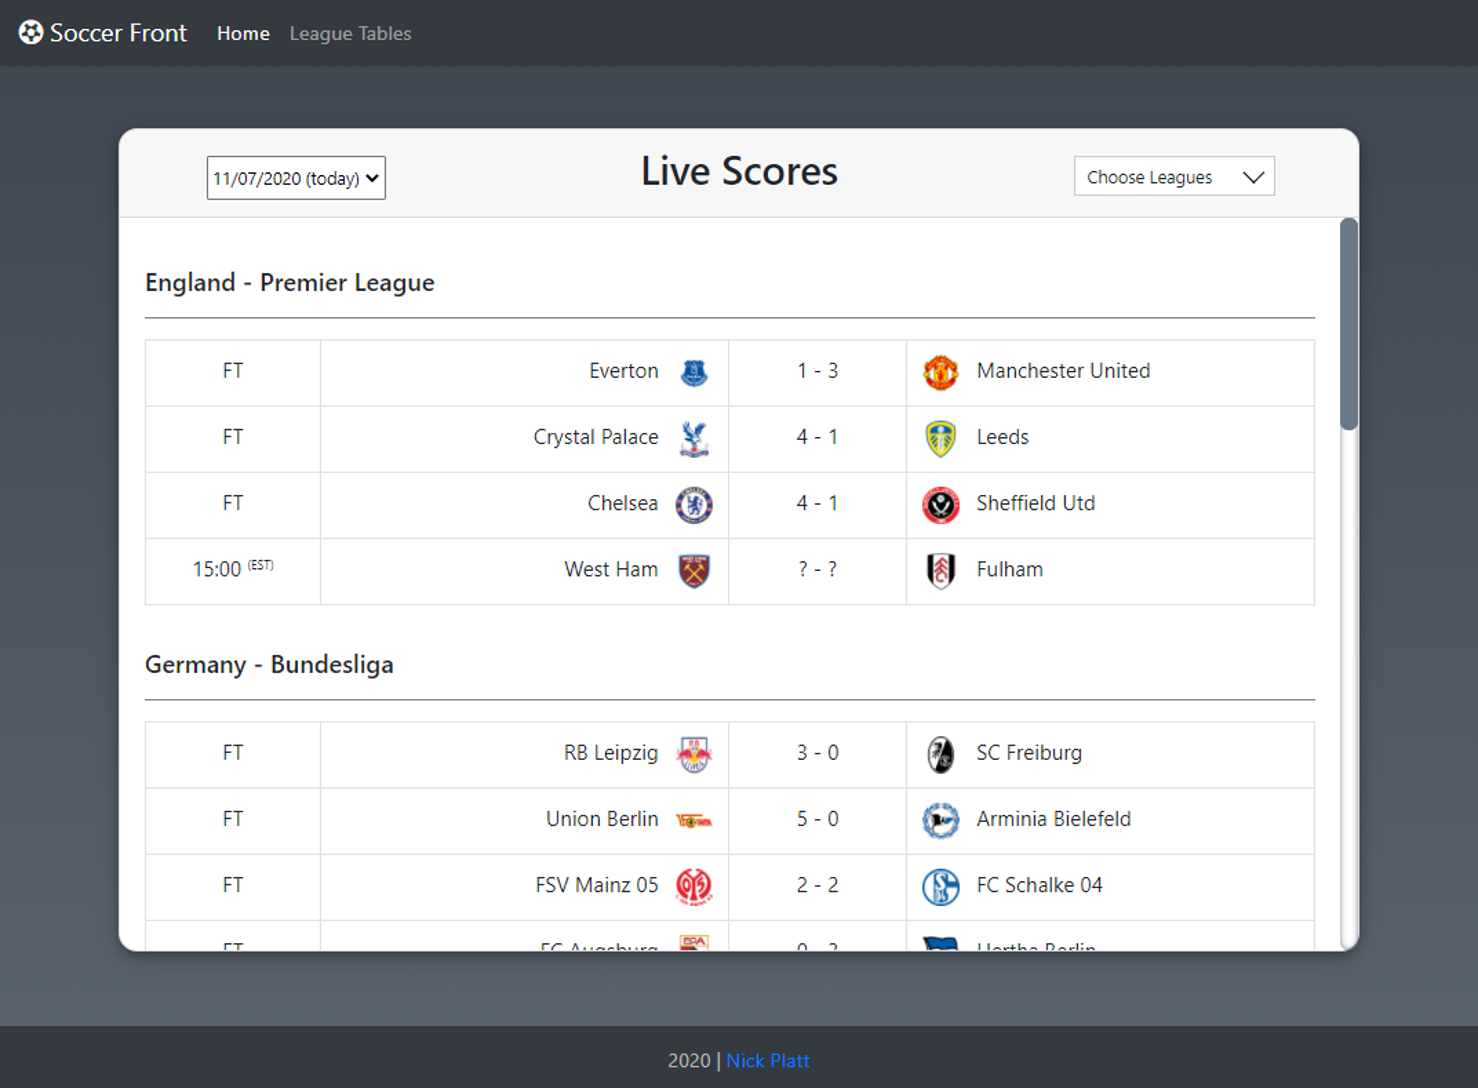
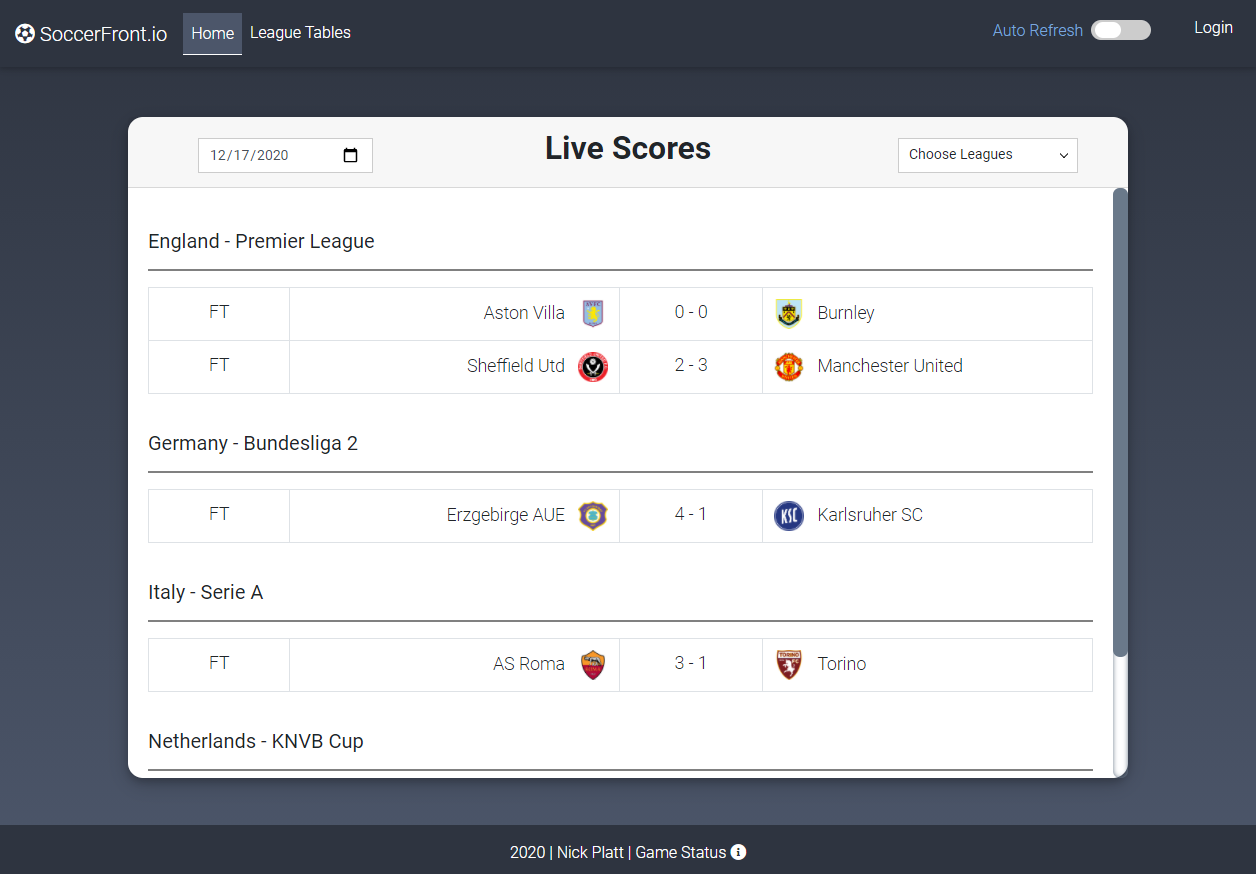
Commit 12/18 - 3
Updated README and images.

diff --git a/README.md b/README.md
@@ -1,6 +1,6 @@
 # Soccerfront
 <strong>The Front Page of Soccer</strong>
-Updated 11/16/2020
+Updated 12/18/2020
 
 Current Homepage View:<br>
 <img class="image" src="images/home.png" width="50%" height="50%">
@@ -11,11 +11,11 @@ Current League Table View:<br>
 <h1>Overview</h1>
 This web application is run in Nodejs using the Express framework.  The application is built using HTML, CSS, and JavaScript. 
 
-Soccerfront is the front page of soccer, showing you today's games in Europe's top leagues.  This table offers the ability to see one week of soccer, 3 days in the past, today, and 3 days in the future.  You are able to change the day by clicking on the date dropdown.  You are also able to turn off/on leagues that interest you in the "Choose Leagues" dropdown.
+Soccerfront is the front page of soccer, showing you today's games in Europe's top leagues.  This table offers the ability to see several years of soccer score data, via the dropdown calendar date picker.  You are able to change the day by clicking on the calendar dropdown.  You are also able to turn off/on leagues that interest you in the "Choose Leagues" dropdown.
 
 You are also able to look at the league standings for these leagues by clicking on the "League Tables" link in the banner.  The league table page will let you select the league you want to see and shows the team's position, games played, wins, ties, losses, goals for/against, goal difference, and overall points.  You are able to choose what league table you want to see by using the "Choose League" dropdown.
 
-Future features include: expanded leagues, additional match details on row click (who scored, assisted, yellow cards, red cards, substitutions - with times), ability to signup/login and set favorite leagues, calendar date chooser (over only one week view), breaking news (including injuries/transfers) page, and many others!
+Future features include: expanded leagues, additional match details on row click (who scored, assisted, yellow cards, red cards, substitutions - with times), ability to signup/login and set favorite leagues, breaking news (including injuries/transfers) page, and many others!
 
 <h2>Leagues Supported:<h2>
 
